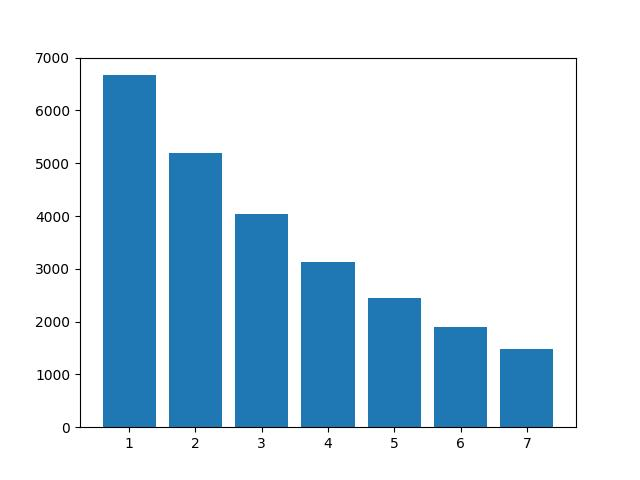
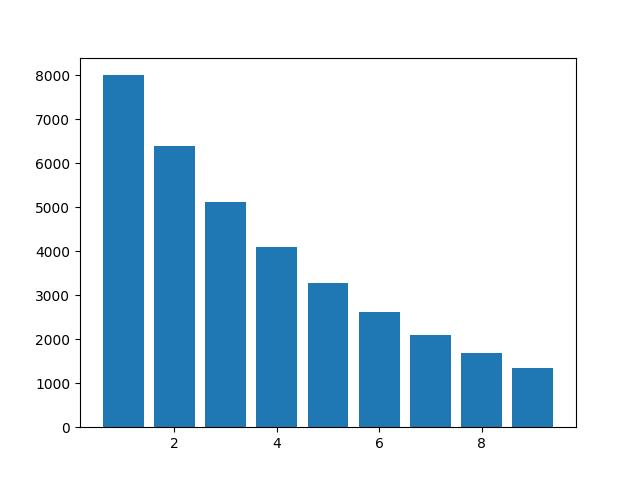
Изменение2

diff --git a/main.py b/main.py
@@ -1,4 +1,4 @@
-# 1 задание сделала с Вагизовой
+# Общее 1 задание сделала с Вагизовой Камиллой
 import os
 Anna_secret=os.environ['Anna_secret']
 print(Anna_secret)
@@ -16,201 +16,7 @@ Sec_Glukhova_3=os.environ['Sec_Glukhova_3']
 print(Sec_Glukhova_3)
 
 
-# #Общее задание
-# #1
-# #линейный способ
-# from sympy import*
-# k,T,C,L = symbols('k C T L')
-# C_ost=100000
-# Am_lst=[]
-# C_ost_lst=[]
-# for i in range(5):
-#   Am = (C-L)/T
-#   C_ost -= Am.subs({C: 100000, T:5, L:0})
-#   Am_lst.append(round(Am.subs({C: 100000, T:5, L:0}), 2))
-#   C_ost_lst.append(round(C_ost, 2))
-# print( 'Am_lst:', Am_lst)
-# print('C_ost_lst:', C_ost_lst)
-
-# #2
-# #способ уменьшаемого остатка
-# Aj=0
-# C_ost=100000
-# Am_lst_2=[]
-# C_ost_lst_2=[]
-# for i in range(5):
-#   Am = k * 1/T * (C - Aj)
-#   C_ost -= Am.subs({C: 100000, T:5, k:2})
-#   Am_lst_2.append(round(Am.subs({C: 100000, T:5, k:2}), 2))
-#   Aj += Am
-#   C_ost_lst_2.append(round(C_ost, 2))
-# print ('Am_lst_2:', Am_lst_2)
-# print ('C_ost_lst_2', C_ost_lst_2)
-
-# #Контейнер табличного вывода
-# import pandas as pd
-# Y = range(1, 6)
-# table1 = list(zip(Y, C_ost_lst, Am_lst))
-# table2 = list(zip(Y, C_ost_lst_2, Am_lst_2))
-# tfame = pd.DataFrame(table1, columns = ['Y', 'C_ost_lst', 'Am_lst'])
-# tfame2 = pd.DataFrame(table2, columns = ['Y', 'C_ost_lst_2', 'Am_lst_2'])
-# print(tfame)
-# print(tfame2)
-
-# #3
-# #линейный способ
-# from sympy import *
-# k, T, C, L = symbols('k T C L')
-# C_ost = 30000
-# Am_lst =[]
-# C_ost_lst=[]
-# for i in range(8):
-#   Am = (C-L)/T
-#   C_ost -= Am.subs({C:30000, T:8, L:0})
-#   Am_lst.append(round(Am.subs({C: 30000, T:8, L:0}),2))
-#   C_ost_lst.append(round(C_ost, 2))
-# print('Am_lst:', Am_lst)
-# print('C_ost_lst:', C_ost_lst)
-
-# #способ уменьшаемого остатка
-# Aj=0
-# C_ost = 30000
-# Am_lst_2=[]
-# C_ost_lst_2=[]
-# for i in range(8):
-#   Am = k*1/T*(C - Aj)
-#   C_ost -= Am.subs({C:30000, T:8, k:2})
-#   Am_lst_2.append(round(Am.subs({C:30000, T:8, k:2}), 2))
-#   Aj += Am 
-#   C_ost_lst_2.append(round(C_ost,2))
-# print('Am_lst_2:', Am_lst_2)
-# print('C_ost_lst_2:', C_ost_lst_2)
-
-# #Контейнер табличного вывода
-# import pandas as pd
-# Y = range(1, 9)
-# table1 = list(zip(Y, C_ost_lst, Am_lst))
-# table2 = list(zip(Y, C_ost_lst_2, Am_lst_2))
-# tfame = pd.DataFrame(table1, columns = ['Y', 'C_ost_lst', 'Am_lst'])
-# tfame2 = pd.DataFrame(table2, columns = ['Y', 'C_ost_lst_2', 'Am_lst_2'])
-# print(tfame)
-# print(tfame2)
-
-# #визуализация
-# import numpy as np
-# import matplotlib.pyplot as plt
-# plt.plot(tfame['Y'], tfame['C_ost_lst'], label='Am')
-# plt.savefig('chart1.png')
-# plt.plot(tfame2['Y'], tfame2['C_ost_lst_2'], label='Am2')
-# plt.savefig('chart2.png')
-
-# vals = Am_lst
-# labels = [str(x) for x in range(1,9)]
-# explode = (0.1,0.1,0.1,0.1,0.1,0.1,0.1,0.1)
-# fig, ax = plt.subplots()
-# ax.pie(vals, labels=labels, autopct='%1.1f%%', shadow=True, explode=explode, wedgeprops={'lw':1, 'ls':'--', 'edgecolor':"k"}, rotatelabels=True)
-# ax.axis("equal")
-# plt.savefig('chart3.png')
-
-# vals =  Am_lst_2
-# labels = [str(x) for x in range(1,9)]
-# explode = (0.1,0.1,0.1,0.1,0.1,0.1,0.1,0.1)
-# fig, ax = plt.subplots()
-# ax.pie(vals, labels=labels, autopct='%1.1f%%', shadow=True, explode=explode, wedgeprops={'lw':1, 'ls':'--', 'edgecolor':"k"}, rotatelabels=True)
-# ax.axis("equal")
-# plt.savefig('chart4.png')
-# plt.clf()
-
-# plt.figure()
-# table1 = list(zip(Y, Am_lst))
-# table2 = list(zip(Y, Am_lst_2))
-# tframe = pd.DataFrame(table1, columns=['Y', 'Am_lst'])
-# tframe2 = pd.DataFrame(table2, columns=['Y', 'Am_lst_2'])
-# plt.bar(tfame['Y'], tfame['Am_lst'])
-# plt.savefig('chart5.jpeg')
-# plt.figure()
-# plt.bar(tfame2['Y'], tfame2['Am_lst_2'])
-# plt.savefig('chart6.jpeg')
-
-# #Индивидуальное задание №2
-# #линейный способ
-# from sympy import *
-# k, T, C, L = symbols('k T C L')
-# C_ost = 50000
-# Am_lst =[]
-# C_ost_lst=[]
-# for i in range(9):
-#   Am = (C-L)/T
-#   C_ost -= Am.subs({C:50000, T:9, L:0})
-#   Am_lst.append(round(Am.subs({C: 50000, T:9, L:0}),2))
-#   C_ost_lst.append(round(C_ost, 2))
-# print('Am_lst:', Am_lst)
-# print('C_ost_lst:', C_ost_lst)
-
-# #способ уменьшаемого остатка
-# Aj=0
-# C_ost = 50000
-# Am_lst_2=[]
-# C_ost_lst_2=[]
-# for i in range(9):
-#   Am = k*1/T*(C - Aj)
-#   C_ost -= Am.subs({C:50000, T:9, k:2})
-#   Am_lst_2.append(round(Am.subs({C:50000, T:9, k:2}), 2))
-#   Aj += Am 
-#   C_ost_lst_2.append(round(C_ost,2))
-# print('Am_lst_2:', Am_lst_2)
-# print('C_ost_lst_2:', C_ost_lst_2)
-
-# #Контейнер табличного вывода
-# import pandas as pd
-# Y = range(1, 10)
-# table1 = list(zip(Y, C_ost_lst, Am_lst))
-# table2 = list(zip(Y, C_ost_lst_2, Am_lst_2))
-# tfame = pd.DataFrame(table1, columns = ['Y', 'C_ost_lst', 'Am_lst'])
-# tfame2 = pd.DataFrame(table2, columns = ['Y', 'C_ost_lst_2', 'Am_lst_2'])
-# print(tfame)
-# print(tfame2)
-
-# #визуализация
-# import numpy as np
-# import matplotlib.pyplot as plt
-# plt.plot(tfame['Y'], tfame['C_ost_lst'], label='Am')
-# plt.savefig('chart7.png')
-# plt.plot(tfame2['Y'], tfame2['C_ost_lst_2'], label='Am2')
-# plt.savefig('chart8.png')
-
-# vals = Am_lst
-# labels = [str(x) for x in range(1, len(vals) + 1)]
-# explode = tuple([0.1] * len(vals))
-# fig, ax = plt.subplots()
-# ax.pie(vals, labels=labels, autopct='%1.1f%%', shadow=True, explode=explode, wedgeprops={'lw':1, 'ls':'--', 'edgecolor':"k"}, rotatelabels=True)
-# ax.axis("equal")
-# plt.savefig('chart9.png')
-
-# vals =  Am_lst_2
-# labels = [str(x) for x in range(1, len(vals) + 1)]
-# explode = tuple([0.1] * len(vals))
-# fig, ax = plt.subplots()
-# ax.pie(vals, labels=labels, autopct='%1.1f%%', shadow=True, explode=explode, wedgeprops={'lw':1, 'ls':'--', 'edgecolor':"k"}, rotatelabels=True)
-# ax.axis("equal")
-# plt.savefig('chart10.png')
-# plt.clf()
-
-# plt.figure()
-# table1 = list(zip(Y, Am_lst))
-# table2 = list(zip(Y, Am_lst_2))
-# tfame = pd.DataFrame(table1, columns=['Y', 'Am_lst'])
-# tfame2 = pd.DataFrame(table2, columns=['Y', 'Am_lst_2'])
-# plt.bar(tfame['Y'], tfame['Am_lst'])
-# plt.savefig('chart11.jpeg')
-# plt.figure()
-# plt.bar(tfame2['Y'], tfame2['Am_lst_2'])
-# plt.savefig('chart12.jpeg')
-
-
-#ЛР 3 общее задание
-#2 задание
-#Вариант 3
+#ЛР 3 общее задание, 3 вариант
 #линейный способ
 from sympy import *
 k, T, C, L = symbols('k T C L') #что это? - создаёт символьные переменные с именами k, T, C, L.
@@ -288,7 +94,145 @@ plt.figure()
 plt.bar(tfame2['Y'], tfame2['Am_lst_2'])
 plt.savefig('chart12.jpeg')
 plt.figure()
+
 #Внесены изменения в данные варианта
 #Проверила Романова Елизавета, оценка 5/5
 #Романова Елизавета ответила на вопросы верно! 5/5! 
 
+#Индивидуальное задание
+#Вариант 2 "Защита гипервизора от несанкционированного доступа из физической сети"
+#1. Для определенных в ТЗ компонентов интеграции создать в реплике необходимое количество секретных ключей
+import os
+CONTAINER_SIGNING_KEY=os.environ['CONTAINER_SIGNING_KEY']
+print(CONTAINER_SIGNING_KEY)
+
+import os
+FILTER_RULES_SECRET=os.environ['FILTER_RULES_SECRET']
+print(FILTER_RULES_SECRET)
+
+import os
+HYPERVISOR_AUTH_TOKEN=os.environ['HYPERVISOR_AUTH_TOKEN']
+print(HYPERVISOR_AUTH_TOKEN)
+
+import os
+MONITORING_API_KEY=os.environ['MONITORING_API_KEY']
+print(MONITORING_API_KEY)
+
+#2. В реплике напишите код контейнеров расчета, табличного представления результатов и визуализации результатов для одного микросервиса по варианту индивидуального задания из ЛР1, согласно ТЗ. Запустите реплику и оцените результаты работы контейнеров расчета, табличного представления результатов и визуализации результатов.
+
+import pandas as pd
+import matplotlib.pyplot as plt
+
+
+incoming = [850, 1200, 5000, 8500, 12000, 15000, 8000, 3000, 1500, 900] # Входящий трафик (пакетов в секунду)
+attempts = [5, 8, 45, 78, 120, 165, 85, 25, 8, 3] # Попытки несанкционированного доступа
+threshold = 4500  # Порог срабатывания (пакетов/с)
+base_filter = 95  # Базовый уровень фильтрации (%)
+koef = 2.5        # Коэффициент усиления при атаке
+
+blocked = []      # Заблокированные пакеты
+efficiency = []   # Эффективность (%)
+risk = []         # Остаточный риск (%)
+filter_level = [] # Уровень фильтрации (%)
+
+for i in range(10):
+  if incoming[i] > threshold:
+          anomaly = (incoming[i] - threshold) / threshold
+
+          current_filter = base_filter + (anomaly * 100 * koef)
+          if current_filter > 99.5:
+              current_filter = 99.5
+  else:
+          anomaly = 0
+          current_filter = base_filter
+  filter_level.append(round(current_filter, 1))
+  blocked_count = incoming[i] * (current_filter / 100)
+  blocked.append(round(blocked_count, 0))
+
+  eff = (blocked_count / incoming[i]) * 100
+  efficiency.append(round(eff, 1))
+
+  r = 100 - eff
+  risk.append(round(r, 1))
+
+  blocked_attempts = attempts[i] * (current_filter / 100)
+
+Y = list(range(1, 11))  # Номера интервалов
+C_ost_lst = risk        # Остаточный риск
+Am_lst = efficiency     # Эффективность
+
+print('blocked:', blocked)
+print('efficiency:', efficiency)
+print('risk:', risk)
+print('filter_level:', filter_level)
+
+
+#Табличное представление
+table1 = list(zip(Y, C_ost_lst, Am_lst))
+tfame = pd.DataFrame(table1, columns=['Y', 'C_ost_lst', 'Am_lst'])
+print(tfame)
+
+table2 = list(zip(Y, incoming, blocked, filter_level))
+tfame2 = pd.DataFrame(table2, columns=['Y', 'Incoming', 'Blocked', 'Filter_%'])
+print(tfame2)
+
+
+#Визуализация
+plt.plot(tfame['Y'], tfame['C_ost_lst'], 'b-o', linewidth=2, markersize=8, label='Остаточный риск')
+plt.xlabel('Интервал')
+plt.ylabel('Риск (%)')
+plt.title('Остаточный риск защиты гипервизора')
+plt.legend()
+plt.grid(True)
+plt.savefig('chart13.png')
+plt.figure()
+
+plt.plot(tfame['Y'], tfame['Am_lst'], 'r-s', linewidth=2, markersize=8, label='Эффективность')
+plt.xlabel('Интервал')
+plt.ylabel('Эффективность (%)')
+plt.title('Эффективность защиты гипервизора')
+plt.legend()
+plt.grid(True)
+plt.savefig('chart14.png')
+plt.figure()
+
+vals = Am_lst
+labels = [str(x) for x in range(1, len(vals) + 1)]
+explode = tuple([0.1] * len(vals))
+fig, ax = plt.subplots()
+ax.pie(vals, labels=labels, autopct='%1.1f%%', shadow=True, explode=explode, 
+       wedgeprops={'lw':1, 'ls':'--', 'edgecolor':"k"}, rotatelabels=True)
+ax.axis("equal")
+plt.title('Распределение эффективности')
+plt.savefig('chart15.png')
+plt.figure()
+
+vals = C_ost_lst
+labels = [str(x) for x in range(1, len(vals) + 1)]
+explode = tuple([0.1] * len(vals))
+fig, ax = plt.subplots()
+ax.pie(vals, labels=labels, autopct='%1.1f%%', shadow=True, explode=explode,
+       wedgeprops={'lw':1, 'ls':'--', 'edgecolor':"k"}, rotatelabels=True)
+ax.axis("equal")
+plt.title('Распределение остаточного риска')
+plt.savefig('chart16.png')
+plt.clf()
+plt.figure()
+
+table_eff = list(zip(Y, Am_lst))
+tfame_eff = pd.DataFrame(table_eff, columns=['Y', 'Am_lst'])
+plt.bar(tfame_eff['Y'], tfame_eff['Am_lst'])
+plt.xlabel('Интервал')
+plt.ylabel('Эффективность (%)')
+plt.title('Эффективность защиты (столбцы)')
+plt.savefig('chart17.jpeg')
+plt.figure()
+
+table_risk = list(zip(Y, C_ost_lst))
+tfame_risk = pd.DataFrame(table_risk, columns=['Y', 'C_ost_lst'])
+plt.bar(tfame_risk['Y'], tfame_risk['C_ost_lst'], color='orange')
+plt.xlabel('Интервал')
+plt.ylabel('Риск (%)')
+plt.title('Остаточный риск (столбцы)')
+plt.savefig('chart18.jpeg')
+plt.figure()
